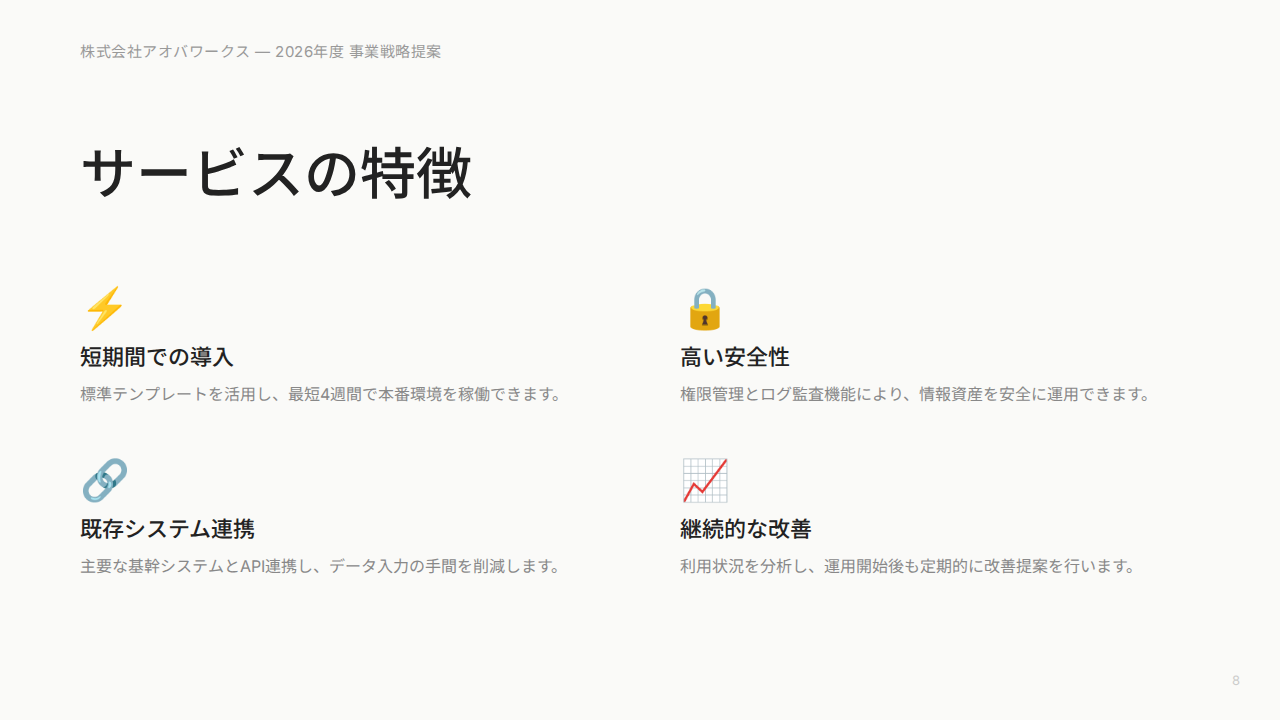
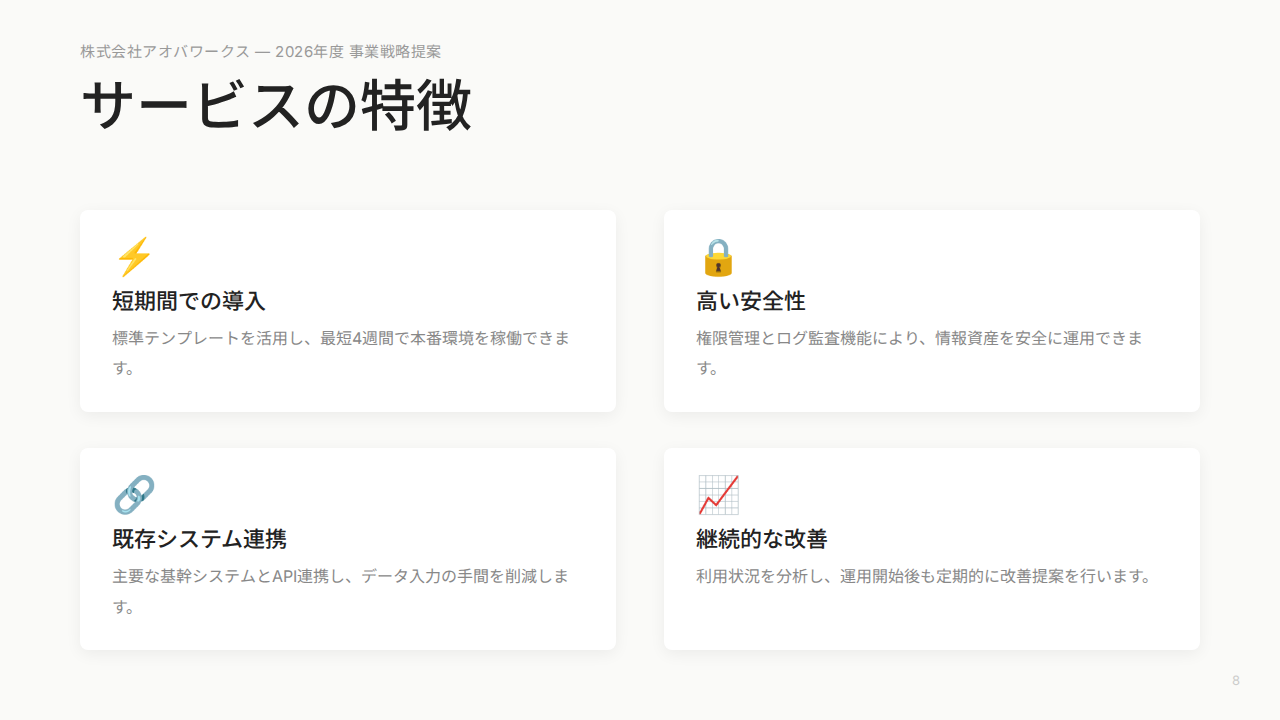
listスライドをカード化し、tableスライドの表を中央寄せに
- サービスの特徴: 各項目を白背景+影付きカードに変更
- プラン比較: defaultテーマのtable(display:block, width:max-content)を
  display:tableに戻し、幅960pxで中央配置。セル内テキストは左寄せのまま

https://claude.ai/code/session_01PyP94vzZH2nJ7yEJCfcTbC

diff --git a/themes/minimal-pro.css b/themes/minimal-pro.css
@@ -243,13 +243,19 @@ section.quote .cite {
 section.list .items {
   display: grid;
   grid-template-columns: 1fr 1fr;
-  gap: 50px 80px;
-  margin-top: 60px;
+  gap: 36px 48px;
+  margin-top: 50px;
+}
+section.list .item {
+  background: #fff;
+  border-radius: 8px;
+  padding: 28px 32px;
+  box-shadow: 0 4px 16px rgba(0, 0, 0, 0.06);
 }
 section.list .item .icon {
-  font-size: 40px;
+  font-size: 36px;
   line-height: 1;
-  margin-bottom: 16px;
+  margin-bottom: 14px;
 }
 section.list .item h3 {
   font-size: 22px;
@@ -265,8 +271,9 @@ section.list .item p {
 
 /* ===== table: 表 ===== */
 section.table table {
-  width: 100%;
-  margin-top: 50px;
+  display: table;
+  width: 960px;
+  margin: 50px auto 0;
   font-size: 18px;
   border-collapse: collapse;
 }
@@ -275,15 +282,13 @@ section.table table th {
   font-weight: 500;
   color: var(--ink);
   border-bottom: 2px solid var(--ink);
-  padding: 14px 16px;
+  padding: 14px 24px;
 }
 section.table table td {
   color: var(--muted);
   border-bottom: 1px solid var(--line);
-  padding: 14px 16px;
+  padding: 14px 24px;
 }
-section.table table th:first-child,
-section.table table td:first-child { padding-left: 0; }
 
 /* ===== team: メンバー紹介 ===== */
 section.team .members {
